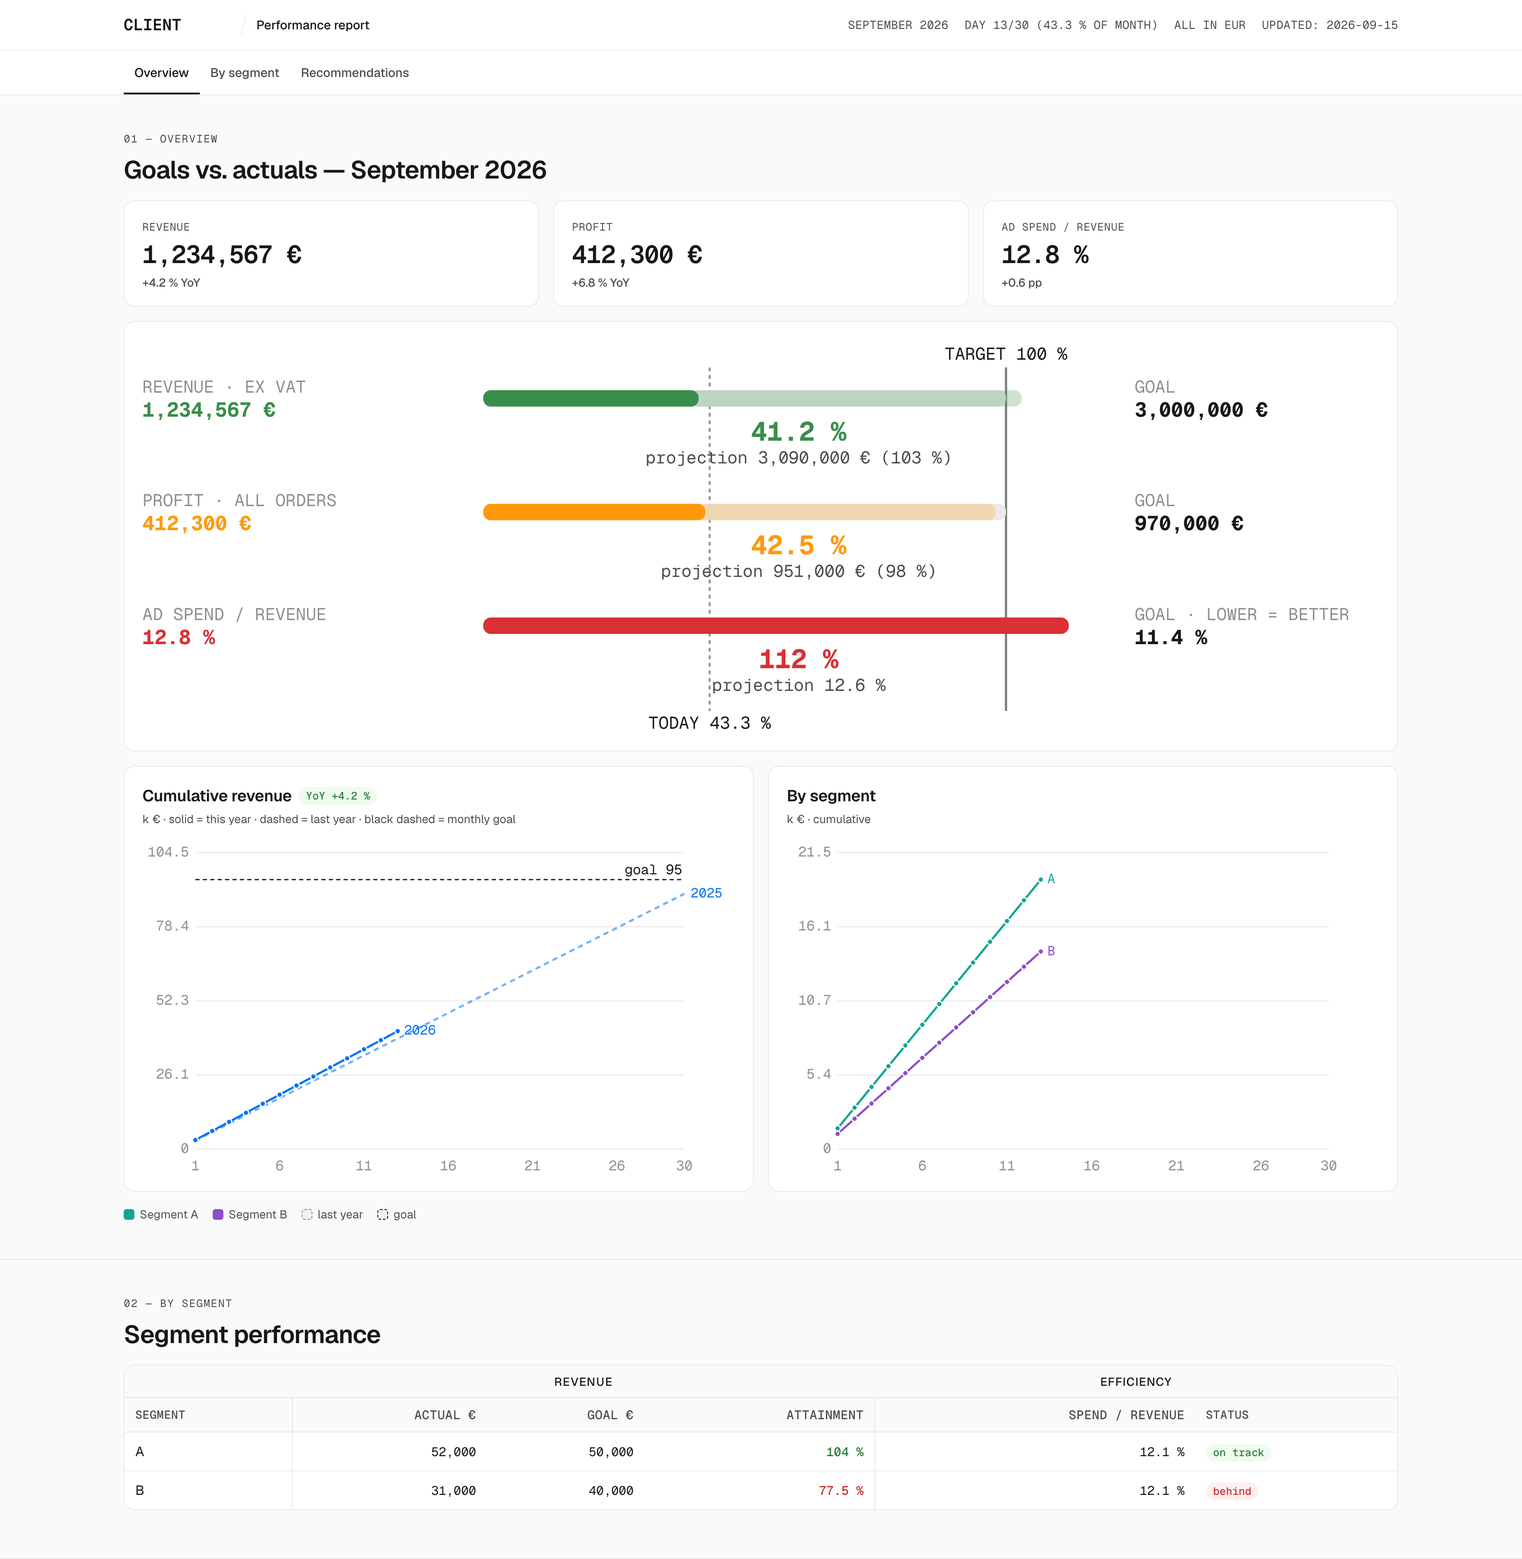
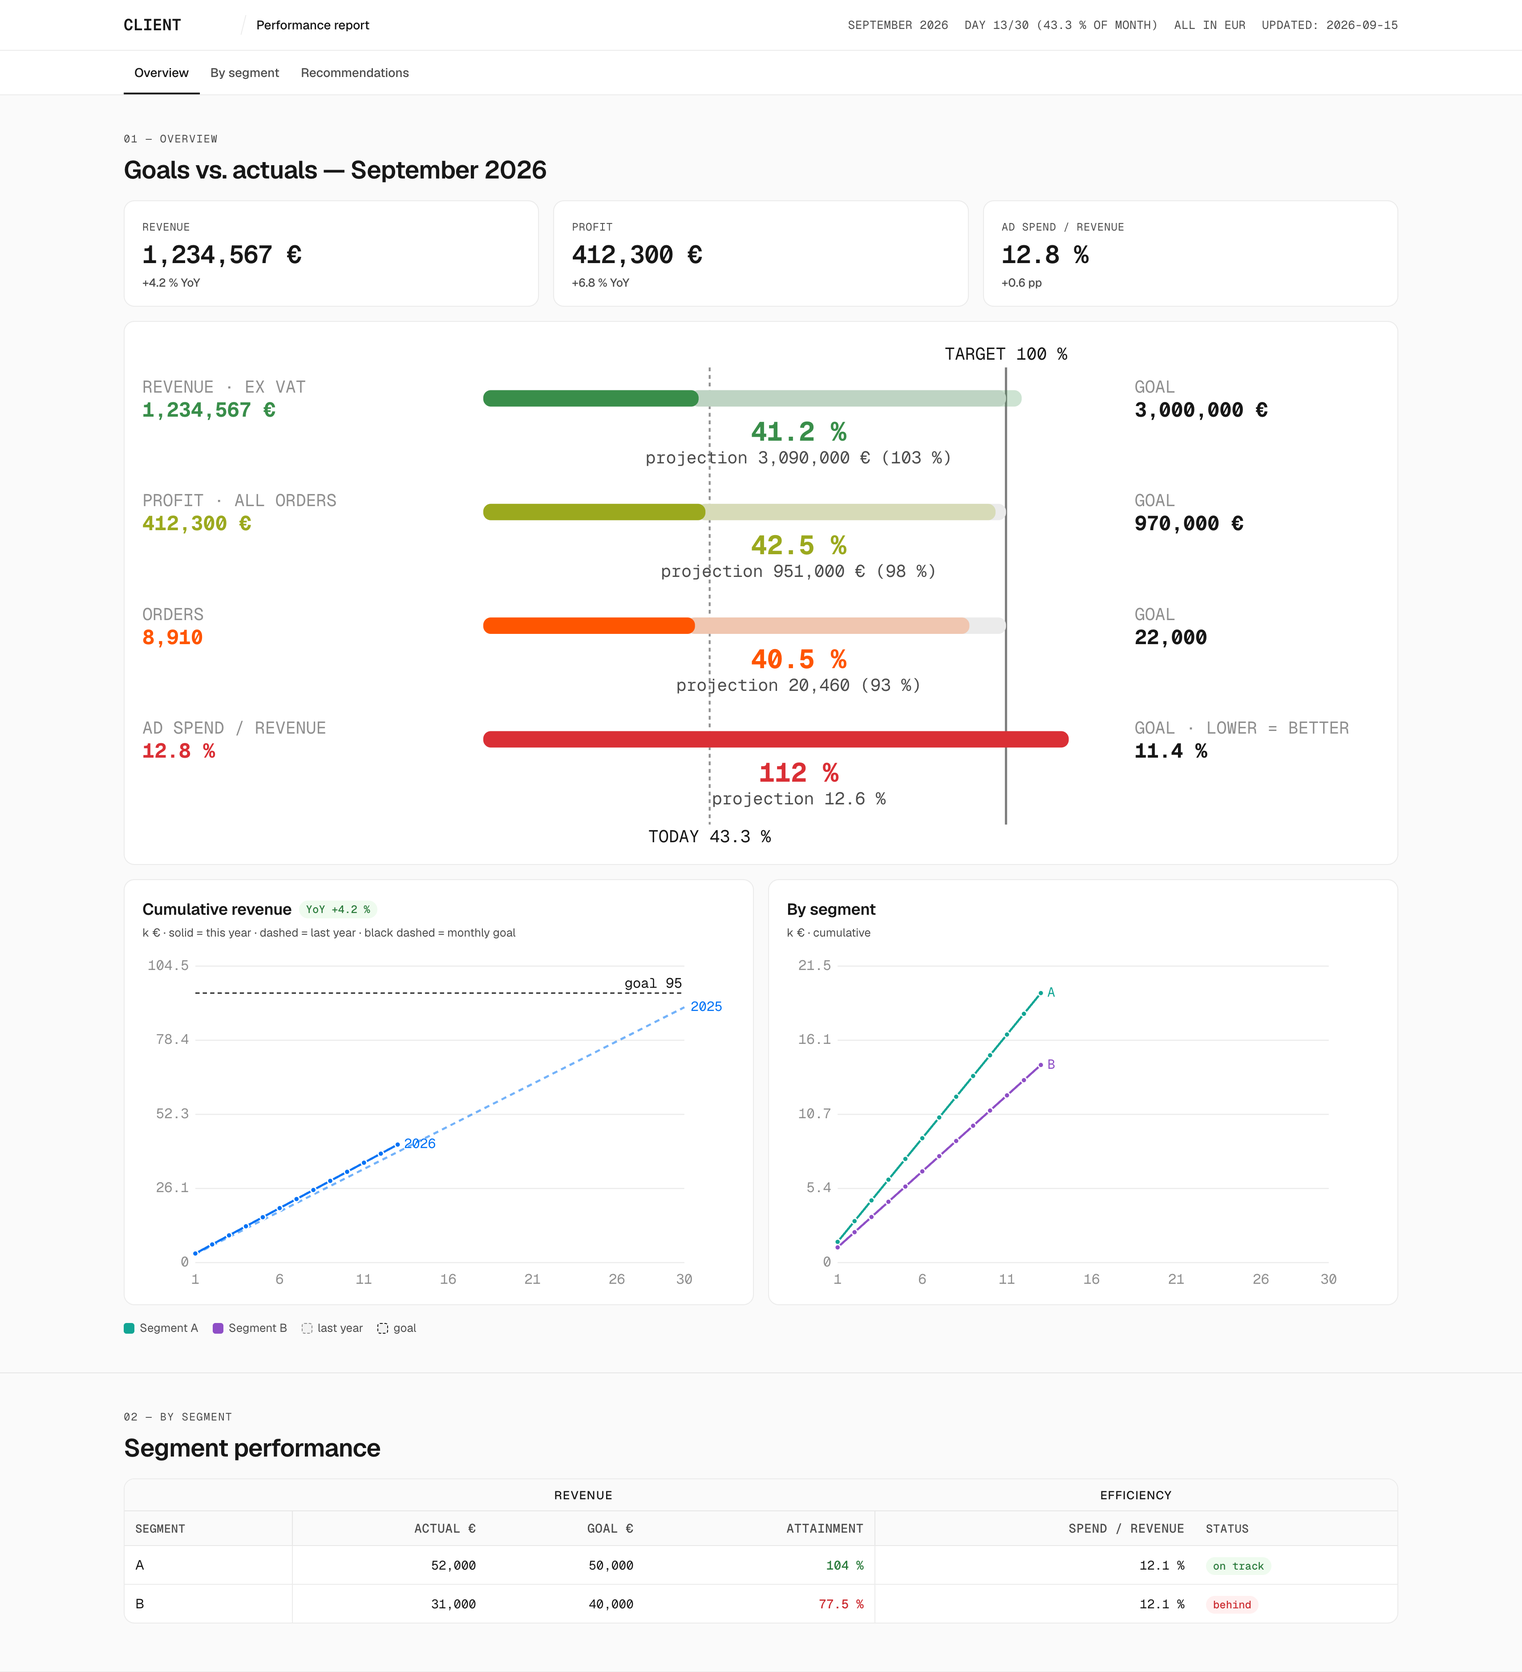
1.0.4: lime scale, status bands restored (green → lime → orange → red) as a fixed rule, template with all four bands, screenshots

diff --git a/dist/ds.esm.js b/dist/ds.esm.js
@@ -5,9 +5,9 @@
 function createMarsUI(){
   const FALLBACK={ 'gray-100':'#f2f2f2','gray-200':'#ebebeb','gray-600':'#a8a8a8','gray-700':'#8f8f8f','gray-900':'#4d4d4d','gray-1000':'#171717',
     'blue-700':'#0070f3','blue-900':'#0068d6','green-800':'#398e4a','green-900':'#297a3a','amber-800':'#ff990a','amber-900':'#a35200',
-    'orange-800':'#ff5500','orange-900':'#bd460f','red-700':'#e5484d','red-800':'#da3036','red-900':'#cb2a30','teal-700':'#12a594','teal-900':'#067a6e','purple-700':'#8e4ec6','purple-900':'#7820bc','background-100':'#ffffff' };
+    'lime-800':'#a2a91e','lime-900':'#616f0d','orange-800':'#ff5500','orange-900':'#bd460f','red-700':'#e5484d','red-800':'#da3036','red-900':'#cb2a30','teal-700':'#12a594','teal-900':'#067a6e','purple-700':'#8e4ec6','purple-900':'#7820bc','background-100':'#ffffff' };
   const token=(name)=>{ try{ const v=getComputedStyle(document.documentElement).getPropertyValue('--mu-'+name).trim(); if(v) return v; }catch(e){} return FALLBACK[name]||'#8f8f8f'; };
-  const status={ ok:()=>token('green-800'), warn3:()=>token('amber-800'), warn10:()=>token('orange-800'), crit:()=>token('red-800'), muted:()=>token('gray-700') };
+  const status={ ok:()=>token('green-800'), warn3:()=>token('lime-800'), warn10:()=>token('orange-800'), crit:()=>token('red-800'), muted:()=>token('gray-700') };
   /** UI labels — English by default; override once per page: MarsUI.setLabels({goal:'cieľ', goal100:'CIEĽ 100 %', …}). */
   const LBL={ goal:'goal', goal100:'TARGET 100 %', today:'TODAY', noData:'No data.', empty:'no data yet',
     pace:{none:'no data',ok:'on track',warn:'slightly behind',crit:'behind'}, yoy:'YoY', yoyNone:'no' };
@@ -24,7 +24,7 @@ function createMarsUI(){
     };
   }
 
-  /** Status color by relative deviation: met → ok, within 3 % → warn3, within 10 % → warn10, beyond → crit.
+  /** Status color by relative deviation — FIXED RULE: met → ok (green), within 3 % → warn3 (lime, still greenish), within 10 % → warn10 (orange), beyond → crit (red).
       ratio = actual/goal; lowerIsBetter for cost-ratio metrics. */
   function ratioColor(ratio, lowerIsBetter=false){
     if(ratio==null||!isFinite(ratio)) return status.muted();
@@ -117,7 +117,7 @@ function createMarsUI(){
     return badge(labels.crit,'crit');
   }
 
-  return { version:'1.0.3', token, status, labels:LBL, setLabels, ratioColor, formatters, lineChart, bulletChart, table, badge, yoyChip, paceChip };
+  return { version:'1.0.4', token, status, labels:LBL, setLabels, ratioColor, formatters, lineChart, bulletChart, table, badge, yoyChip, paceChip };
 }
 
 const MarsUI=createMarsUI();

diff --git a/dist/ds.js b/dist/ds.js
@@ -6,9 +6,9 @@
 function createMarsUI(){
   const FALLBACK={ 'gray-100':'#f2f2f2','gray-200':'#ebebeb','gray-600':'#a8a8a8','gray-700':'#8f8f8f','gray-900':'#4d4d4d','gray-1000':'#171717',
     'blue-700':'#0070f3','blue-900':'#0068d6','green-800':'#398e4a','green-900':'#297a3a','amber-800':'#ff990a','amber-900':'#a35200',
-    'orange-800':'#ff5500','orange-900':'#bd460f','red-700':'#e5484d','red-800':'#da3036','red-900':'#cb2a30','teal-700':'#12a594','teal-900':'#067a6e','purple-700':'#8e4ec6','purple-900':'#7820bc','background-100':'#ffffff' };
+    'lime-800':'#a2a91e','lime-900':'#616f0d','orange-800':'#ff5500','orange-900':'#bd460f','red-700':'#e5484d','red-800':'#da3036','red-900':'#cb2a30','teal-700':'#12a594','teal-900':'#067a6e','purple-700':'#8e4ec6','purple-900':'#7820bc','background-100':'#ffffff' };
   const token=(name)=>{ try{ const v=getComputedStyle(document.documentElement).getPropertyValue('--mu-'+name).trim(); if(v) return v; }catch(e){} return FALLBACK[name]||'#8f8f8f'; };
-  const status={ ok:()=>token('green-800'), warn3:()=>token('amber-800'), warn10:()=>token('orange-800'), crit:()=>token('red-800'), muted:()=>token('gray-700') };
+  const status={ ok:()=>token('green-800'), warn3:()=>token('lime-800'), warn10:()=>token('orange-800'), crit:()=>token('red-800'), muted:()=>token('gray-700') };
   /** UI labels — English by default; override once per page: MarsUI.setLabels({goal:'cieľ', goal100:'CIEĽ 100 %', …}). */
   const LBL={ goal:'goal', goal100:'TARGET 100 %', today:'TODAY', noData:'No data.', empty:'no data yet',
     pace:{none:'no data',ok:'on track',warn:'slightly behind',crit:'behind'}, yoy:'YoY', yoyNone:'no' };
@@ -25,7 +25,7 @@ function createMarsUI(){
     };
   }
 
-  /** Status color by relative deviation: met → ok, within 3 % → warn3, within 10 % → warn10, beyond → crit.
+  /** Status color by relative deviation — FIXED RULE: met → ok (green), within 3 % → warn3 (lime, still greenish), within 10 % → warn10 (orange), beyond → crit (red).
       ratio = actual/goal; lowerIsBetter for cost-ratio metrics. */
   function ratioColor(ratio, lowerIsBetter=false){
     if(ratio==null||!isFinite(ratio)) return status.muted();
@@ -118,7 +118,7 @@ function createMarsUI(){
     return badge(labels.crit,'crit');
   }
 
-  return { version:'1.0.3', token, status, labels:LBL, setLabels, ratioColor, formatters, lineChart, bulletChart, table, badge, yoyChip, paceChip };
+  return { version:'1.0.4', token, status, labels:LBL, setLabels, ratioColor, formatters, lineChart, bulletChart, table, badge, yoyChip, paceChip };
 }
 
 return createMarsUI();

diff --git a/src/charts.js b/src/charts.js
@@ -4,9 +4,9 @@
 function createMarsUI(){
   const FALLBACK={ 'gray-100':'#f2f2f2','gray-200':'#ebebeb','gray-600':'#a8a8a8','gray-700':'#8f8f8f','gray-900':'#4d4d4d','gray-1000':'#171717',
     'blue-700':'#0070f3','blue-900':'#0068d6','green-800':'#398e4a','green-900':'#297a3a','amber-800':'#ff990a','amber-900':'#a35200',
-    'orange-800':'#ff5500','orange-900':'#bd460f','red-700':'#e5484d','red-800':'#da3036','red-900':'#cb2a30','teal-700':'#12a594','teal-900':'#067a6e','purple-700':'#8e4ec6','purple-900':'#7820bc','background-100':'#ffffff' };
+    'lime-800':'#a2a91e','lime-900':'#616f0d','orange-800':'#ff5500','orange-900':'#bd460f','red-700':'#e5484d','red-800':'#da3036','red-900':'#cb2a30','teal-700':'#12a594','teal-900':'#067a6e','purple-700':'#8e4ec6','purple-900':'#7820bc','background-100':'#ffffff' };
   const token=(name)=>{ try{ const v=getComputedStyle(document.documentElement).getPropertyValue('--mu-'+name).trim(); if(v) return v; }catch(e){} return FALLBACK[name]||'#8f8f8f'; };
-  const status={ ok:()=>token('green-800'), warn3:()=>token('amber-800'), warn10:()=>token('orange-800'), crit:()=>token('red-800'), muted:()=>token('gray-700') };
+  const status={ ok:()=>token('green-800'), warn3:()=>token('lime-800'), warn10:()=>token('orange-800'), crit:()=>token('red-800'), muted:()=>token('gray-700') };
   /** UI labels — English by default; override once per page: MarsUI.setLabels({goal:'cieľ', goal100:'CIEĽ 100 %', …}). */
   const LBL={ goal:'goal', goal100:'TARGET 100 %', today:'TODAY', noData:'No data.', empty:'no data yet',
     pace:{none:'no data',ok:'on track',warn:'slightly behind',crit:'behind'}, yoy:'YoY', yoyNone:'no' };
@@ -23,7 +23,7 @@ function createMarsUI(){
     };
   }
 
-  /** Status color by relative deviation: met → ok, within 3 % → warn3, within 10 % → warn10, beyond → crit.
+  /** Status color by relative deviation — FIXED RULE: met → ok (green), within 3 % → warn3 (lime, still greenish), within 10 % → warn10 (orange), beyond → crit (red).
       ratio = actual/goal; lowerIsBetter for cost-ratio metrics. */
   function ratioColor(ratio, lowerIsBetter=false){
     if(ratio==null||!isFinite(ratio)) return status.muted();
@@ -116,5 +116,5 @@ function createMarsUI(){
     return badge(labels.crit,'crit');
   }
 
-  return { version:'1.0.3', token, status, labels:LBL, setLabels, ratioColor, formatters, lineChart, bulletChart, table, badge, yoyChip, paceChip };
+  return { version:'1.0.4', token, status, labels:LBL, setLabels, ratioColor, formatters, lineChart, bulletChart, table, badge, yoyChip, paceChip };
 }

diff --git a/dist/tokens.js b/dist/tokens.js
@@ -101,6 +101,16 @@ export const tokens = {
    "orange-800": "hsl(20,100%,50%)",
    "orange-900": "hsl(18,85%,40%)",
    "orange-1000": "hsl(18,70%,16%)",
+   "lime-100": "hsl(66,80%,95%)",
+   "lime-200": "hsl(66,80%,92%)",
+   "lime-300": "hsl(66,75%,86%)",
+   "lime-400": "hsl(66,70%,76%)",
+   "lime-500": "hsl(66,65%,62%)",
+   "lime-600": "hsl(66,65%,50%)",
+   "lime-700": "hsl(66,70%,44%)",
+   "lime-800": "hsl(66,70%,39%)",
+   "lime-900": "hsl(66,80%,26%)",
+   "lime-1000": "hsl(66,60%,12%)",
    "gray-alpha-100": "#0000000d",
    "gray-alpha-200": "#00000014",
    "gray-alpha-300": "#0000001a",
@@ -205,6 +215,16 @@ export const tokens = {
    "orange-800": "hsl(20,100%,50%)",
    "orange-900": "hsl(24,100%,66%)",
    "orange-1000": "hsl(28,100%,94%)",
+   "lime-100": "hsl(66,50%,9%)",
+   "lime-200": "hsl(66,50%,12%)",
+   "lime-300": "hsl(66,55%,15%)",
+   "lime-400": "hsl(66,60%,18%)",
+   "lime-500": "hsl(66,65%,24%)",
+   "lime-600": "hsl(66,70%,34%)",
+   "lime-700": "hsl(66,70%,44%)",
+   "lime-800": "hsl(66,70%,45%)",
+   "lime-900": "hsl(66,70%,60%)",
+   "lime-1000": "hsl(66,80%,92%)",
    "gray-alpha-100": "#ffffff0f",
    "gray-alpha-200": "#ffffff17",
    "gray-alpha-300": "#ffffff21",
@@ -384,7 +404,7 @@ export const tokens = {
   "status": {
    "ok": "green-800",
    "ok-text": "green-900",
-   "warn-3": "amber-800",
+   "warn-3": "lime-800",
    "warn-10": "orange-800",
    "crit": "red-800",
    "crit-text": "red-900",
@@ -414,7 +434,8 @@ export const tokens = {
     "line": "red-700",
     "text": "red-900"
    }
-  }
+  },
+  "status_rule": "FIXED RULE (Marek, 2026-09-09; restored 2026-09-15): met = green-800 · within 3 % = lime-800 (yellow-green, still a shade of green) · within 10 % = orange-800 · beyond 10 % = red-800. Do not change bands or colors without an explicit decision."
  }
 };
 export const light = tokens.color.light;

diff --git a/templates/report.html b/templates/report.html
@@ -62,10 +62,11 @@ if (!['localhost', '127.0.0.1'].includes(location.hostname)) {
 <script>
 // API sample — replace with your data (fetch('data/….json'))
 const UI=window.MarsUI, F=UI.formatters('en-US');
-// three goal rows: green = met, orange = within 3 %, red = more than 10 % off
+// four goal rows = the fixed status bands: green = met, lime = within 3 %, orange = within 10 %, red = beyond 10 %
 UI.bulletChart(document.getElementById('bullets'),[
   {label:'REVENUE · EX VAT',val:F.eur(1234567),pct:41.2,ppct:103,big:F.pct(41.2),sub:'projection '+F.eur(3090000)+' ('+F.pct(103)+')',right:'GOAL',rightVal:F.eur(3000000),color:UI.ratioColor(1.03)},
   {label:'PROFIT · ALL ORDERS',val:F.eur(412300),pct:42.5,ppct:98,big:F.pct(42.5),sub:'projection '+F.eur(951000)+' ('+F.pct(98)+')',right:'GOAL',rightVal:F.eur(970000),color:UI.ratioColor(0.98)},
+  {label:'ORDERS',val:F.n(8910),pct:40.5,ppct:93,big:F.pct(40.5),sub:'projection '+F.n(20460)+' ('+F.pct(93)+')',right:'GOAL',rightVal:F.n(22000),color:UI.ratioColor(0.93)},
   {label:'AD SPEND / REVENUE',val:F.pct(12.8),pct:112,ppct:110,big:F.pct(112),sub:'projection 12.6 %',right:'GOAL · LOWER = BETTER',rightVal:F.pct(11.4),color:UI.ratioColor(1.12,true)},
 ],{progress:43.3});
 const days=Array.from({length:30},(_,i)=>i+1);

diff --git a/dist/ds.css b/dist/ds.css
@@ -90,6 +90,16 @@
   --mu-orange-800:hsl(20,100%,50%);
   --mu-orange-900:hsl(18,85%,40%);
   --mu-orange-1000:hsl(18,70%,16%);
+  --mu-lime-100:hsl(66,80%,95%);
+  --mu-lime-200:hsl(66,80%,92%);
+  --mu-lime-300:hsl(66,75%,86%);
+  --mu-lime-400:hsl(66,70%,76%);
+  --mu-lime-500:hsl(66,65%,62%);
+  --mu-lime-600:hsl(66,65%,50%);
+  --mu-lime-700:hsl(66,70%,44%);
+  --mu-lime-800:hsl(66,70%,39%);
+  --mu-lime-900:hsl(66,80%,26%);
+  --mu-lime-1000:hsl(66,60%,12%);
   --mu-gray-alpha-100:#0000000d;
   --mu-gray-alpha-200:#00000014;
   --mu-gray-alpha-300:#0000001a;
@@ -220,6 +230,16 @@
   --mu-orange-800:hsl(20,100%,50%);
   --mu-orange-900:hsl(24,100%,66%);
   --mu-orange-1000:hsl(28,100%,94%);
+  --mu-lime-100:hsl(66,50%,9%);
+  --mu-lime-200:hsl(66,50%,12%);
+  --mu-lime-300:hsl(66,55%,15%);
+  --mu-lime-400:hsl(66,60%,18%);
+  --mu-lime-500:hsl(66,65%,24%);
+  --mu-lime-600:hsl(66,70%,34%);
+  --mu-lime-700:hsl(66,70%,44%);
+  --mu-lime-800:hsl(66,70%,45%);
+  --mu-lime-900:hsl(66,70%,60%);
+  --mu-lime-1000:hsl(66,80%,92%);
   --mu-gray-alpha-100:#ffffff0f;
   --mu-gray-alpha-200:#ffffff17;
   --mu-gray-alpha-300:#ffffff21;

diff --git a/dist/tokens.css b/dist/tokens.css
@@ -90,6 +90,16 @@
   --mu-orange-800:hsl(20,100%,50%);
   --mu-orange-900:hsl(18,85%,40%);
   --mu-orange-1000:hsl(18,70%,16%);
+  --mu-lime-100:hsl(66,80%,95%);
+  --mu-lime-200:hsl(66,80%,92%);
+  --mu-lime-300:hsl(66,75%,86%);
+  --mu-lime-400:hsl(66,70%,76%);
+  --mu-lime-500:hsl(66,65%,62%);
+  --mu-lime-600:hsl(66,65%,50%);
+  --mu-lime-700:hsl(66,70%,44%);
+  --mu-lime-800:hsl(66,70%,39%);
+  --mu-lime-900:hsl(66,80%,26%);
+  --mu-lime-1000:hsl(66,60%,12%);
   --mu-gray-alpha-100:#0000000d;
   --mu-gray-alpha-200:#00000014;
   --mu-gray-alpha-300:#0000001a;
@@ -220,6 +230,16 @@
   --mu-orange-800:hsl(20,100%,50%);
   --mu-orange-900:hsl(24,100%,66%);
   --mu-orange-1000:hsl(28,100%,94%);
+  --mu-lime-100:hsl(66,50%,9%);
+  --mu-lime-200:hsl(66,50%,12%);
+  --mu-lime-300:hsl(66,55%,15%);
+  --mu-lime-400:hsl(66,60%,18%);
+  --mu-lime-500:hsl(66,65%,24%);
+  --mu-lime-600:hsl(66,70%,34%);
+  --mu-lime-700:hsl(66,70%,44%);
+  --mu-lime-800:hsl(66,70%,45%);
+  --mu-lime-900:hsl(66,70%,60%);
+  --mu-lime-1000:hsl(66,80%,92%);
   --mu-gray-alpha-100:#ffffff0f;
   --mu-gray-alpha-200:#ffffff17;
   --mu-gray-alpha-300:#ffffff21;

diff --git a/tailwind/theme.css b/tailwind/theme.css
@@ -94,6 +94,16 @@
   --color-orange-800: var(--mu-orange-800);
   --color-orange-900: var(--mu-orange-900);
   --color-orange-1000: var(--mu-orange-1000);
+  --color-lime-100: var(--mu-lime-100);
+  --color-lime-200: var(--mu-lime-200);
+  --color-lime-300: var(--mu-lime-300);
+  --color-lime-400: var(--mu-lime-400);
+  --color-lime-500: var(--mu-lime-500);
+  --color-lime-600: var(--mu-lime-600);
+  --color-lime-700: var(--mu-lime-700);
+  --color-lime-800: var(--mu-lime-800);
+  --color-lime-900: var(--mu-lime-900);
+  --color-lime-1000: var(--mu-lime-1000);
   --color-gray-alpha-100: var(--mu-gray-alpha-100);
   --color-gray-alpha-200: var(--mu-gray-alpha-200);
   --color-gray-alpha-300: var(--mu-gray-alpha-300);

diff --git a/scripts/build.py b/scripts/build.py
@@ -157,14 +157,14 @@ fails = []
 for mode in ("light", "dark"):
     col = T["color"][mode]
     for bg in ("background-100", "background-200"):
-        for scale in ("gray", "blue", "red", "amber", "orange", "green", "teal", "purple", "pink"):
+        for scale in ("gray", "blue", "red", "amber", "orange", "lime", "green", "teal", "purple", "pink"):
             for step, need in (("1000", 7.0), ("900", 4.5)):
                 key = f"{scale}-{step}"
                 cr = contrast(col[key], col[bg])
                 if cr < need:
                     fails.append(f"{mode} {key} on {bg}: {cr:.2f} < {need}")
     # badge: text 900 on background 100 of the same scale
-    for scale in ("blue", "red", "amber", "orange", "green", "teal", "purple", "pink"):
+    for scale in ("blue", "red", "amber", "orange", "lime", "green", "teal", "purple", "pink"):
         cr = contrast(col[f"{scale}-900"], col[f"{scale}-100"])
         if cr < 4.5:
             fails.append(f"{mode} badge {scale}-900 on {scale}-100: {cr:.2f} < 4.5")

diff --git a/DESIGN_SYSTEM.md b/DESIGN_SYSTEM.md
@@ -25,7 +25,7 @@ Start from `templates/report.html` (topbar + tabs + sections + chart examples) a
 |---|---|---|
 | backgrounds | `--mu-background-100` (cards, topbar), `--mu-background-200` (page) | 100 = surface, 200 = canvas |
 | gray | `--mu-gray-100…1000`, `--mu-gray-alpha-100…1000` | 100–300 component backgrounds (default/hover/active), 400–600 borders (`gray-alpha-400` = the standard 1 px border), 700–800 high-contrast fills and chart axes, 900 secondary text, 1000 primary text |
-| accents | `blue`, `red`, `amber`, `orange`, `green`, `teal`, `purple`, `pink` × 100–1000 | 100 badge background, 700–800 lines/bars/buttons, 900 badge text and colored numbers. `orange` is a mars-ui addition (Geist has none): use it where `amber-900` would read as brown on bars or big numbers |
+| accents | `blue`, `red`, `amber`, `orange`, `lime`, `green`, `teal`, `purple`, `pink` × 100–1000 | 100 badge background, 700–800 lines/bars/buttons, 900 badge text and colored numbers. `orange` and `lime` are mars-ui additions (Geist has neither): they exist for the status bands below |
 | effects | `--mu-shadow-small/medium/large/tooltip/menu/modal`, `--mu-focus-ring` | shadows only on floating elements (menus, modals); cards have none |
 | radius | `--mu-radius-sm` 6 px (buttons, inputs, text badges), `--mu-radius-md` 12 px (cards, tables), `--mu-radius-lg` 16 px, `--mu-radius-full` (pills) | |
 | fonts | `--mu-font-sans` Geist, `--mu-font-mono` Geist Mono | mono = numbers in tables, chart axes, meta rows, badges, code |
@@ -57,7 +57,17 @@ Rules: headings are always Geist Sans, never serif. Numbers compared in a column
 - `lineChart(el, labels, series, opts)` — series `{label,color,values,dash,opacity,width,nodots}`; `opts.goal` draws a black dashed goal line, `opts.yfmt/tfmt` formatters, `opts.xstep`, `opts.wide`. The left margin adapts to the widest axis label.
 - Conventions: **this year solid**, **last year same color dashed `5 4` at opacity .55** (.35 in multi-entity comparisons), **monthly goal black dashed**, **linear path to goal gray dotted `2 4`** (gray-600, width 1). Company-wide series = `blue-700`. Grid `gray-200`, axes `gray-700`.
 - `bulletChart(el, rows, {progress})` — each row: label + value on the left, bar to goal (100 % = vertical black line), big percentage and projection in the middle, target on the right; `progress` draws "TODAY x %".
-- Status colors (`ratioColor`): met `green-800`, within 3 % `amber-800` (yellow-orange), within 10 % `orange-800` (orange), beyond `red-800`; no data `gray-700`. Never use `amber-900` on bars or big numbers — it is brown; it is only for badge text on `amber-100`.
+- **Status bands — fixed rule** (`ratioColor`, `status`). A small miss is still a shade of green; only from 3 % on it turns warm:
+
+  | deviation from goal (worse direction) | token | color |
+  |---|---|---|
+  | met (≤ 0 %) | `green-800` | green |
+  | within 3 % | `lime-800` | yellow-green |
+  | within 10 % | `orange-800` | orange |
+  | beyond 10 % | `red-800` | red |
+  | no data | `gray-700` | gray |
+
+  Do not change the bands or the colors without an explicit decision. Never use `amber-900` on bars or big numbers — it is brown; `amber` is only for `chip-warn` / `note-warn` badges and as a series color.
 - Series palette for several entities: amber-800, teal-700, purple-700, red-700, blue-700, pink-700 (text = step 900; for amber use `orange-900` as text, not the brown `amber-900`).
 
 ## 6. Brand layer

diff --git a/CHANGELOG.md b/CHANGELOG.md
@@ -1,5 +1,9 @@
 # Changelog
 
+## 1.0.4 — 2026-09-15
+
+- New `lime` scale. Status bands restored to the original rule: met green-800 · within 3 % lime-800 (yellow-green) · within 10 % orange-800 · beyond red-800. Documented as a fixed rule.
+
 ## 1.0.3 — 2026-09-15
 
 - New `orange` scale (100–1000, light + dark). Status band "within 10 %" is `orange-800` instead of the brown `amber-900`; warm text uses `orange-900`.
